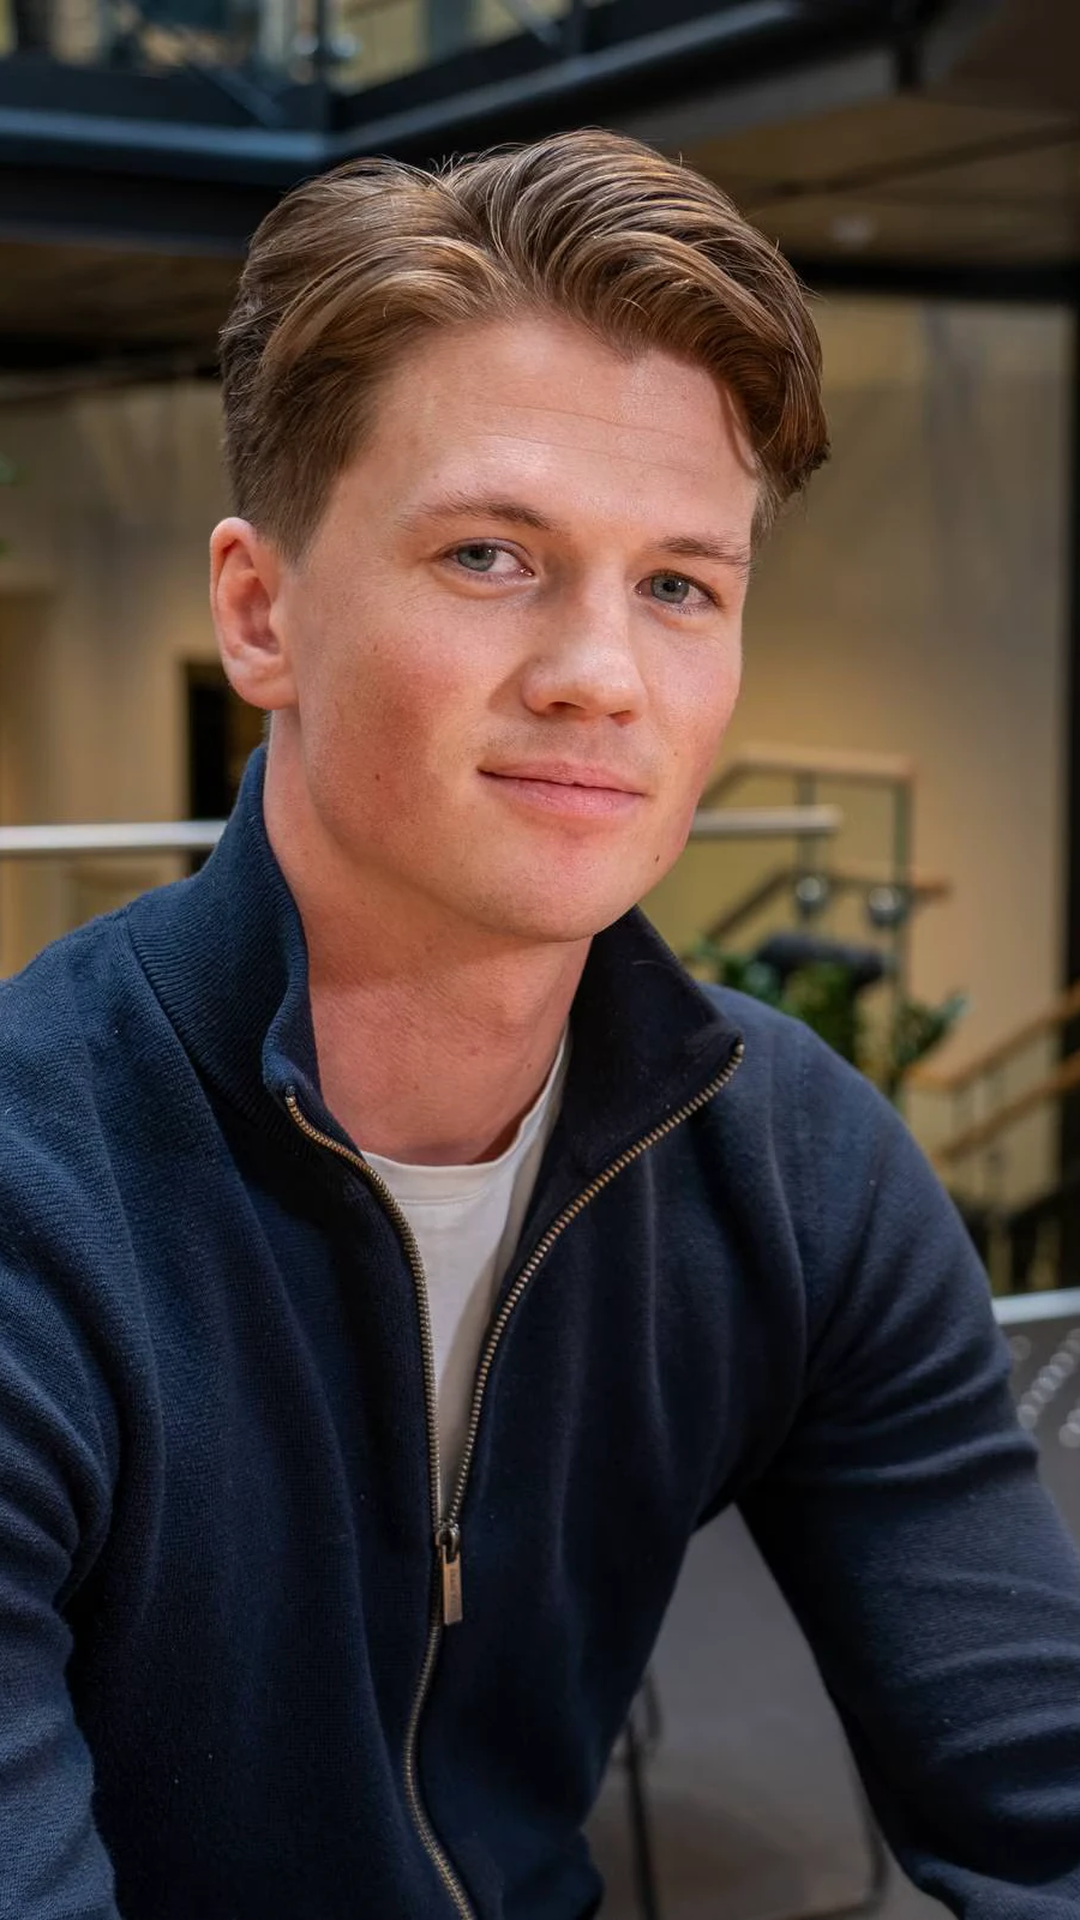
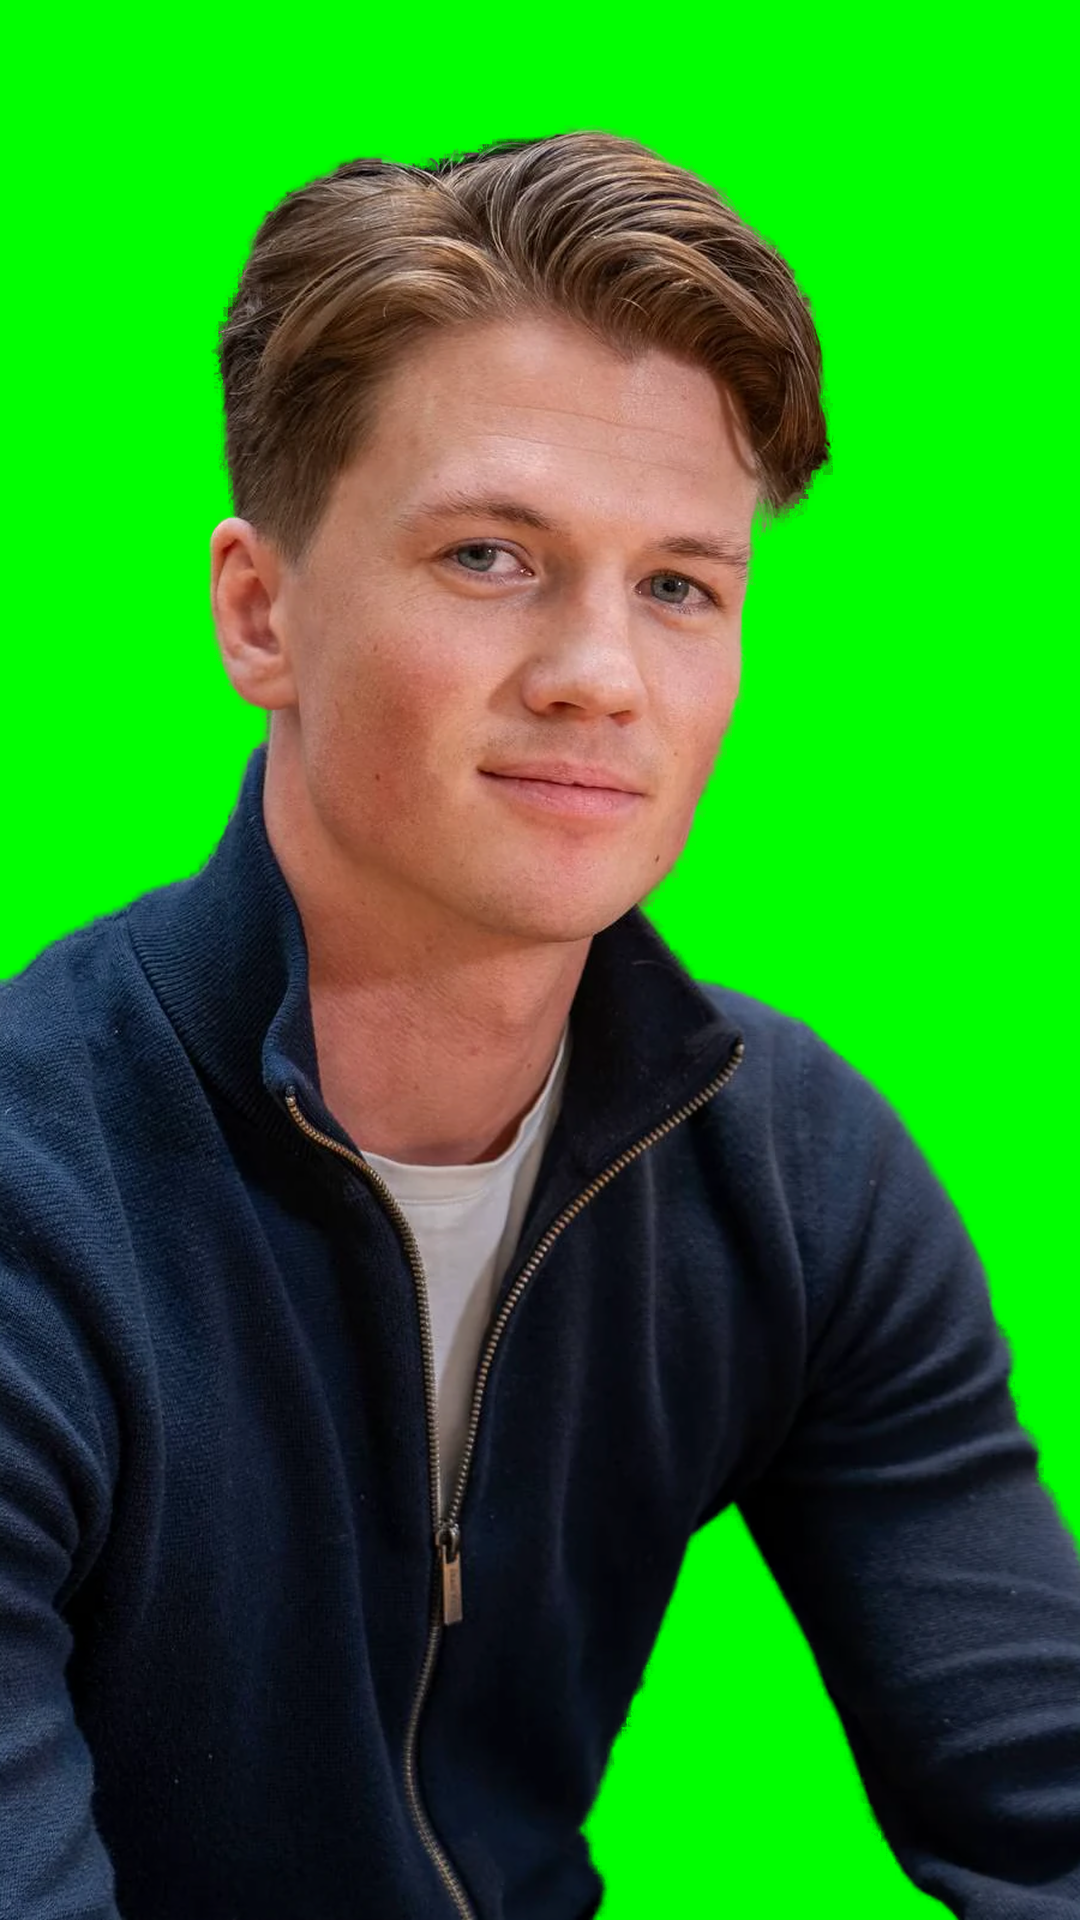
Shorts: cut-out presenter, slower cuts

diff --git a/scripts/make_short.py b/scripts/make_short.py
@@ -33,7 +33,7 @@ UA = {"User-Agent": "Mozilla/5.0 (PuroClassicoShorts/1.0; +https://www.puroclass
 PLAT = {"weidian": "Weidian", "taobao": "Taobao", "1688": "1688"}
 FORMATS = ["story", "relatable", "story", "guess", "story", "top5", "story", "qc", "story", "term", "story", "order"]
 FF = imageio_ffmpeg.get_ffmpeg_exe()
-VOICES = [v for v in (os.environ.get("SHORTS_VOICE", "").strip(), "TX3LPaxmHKxFdv7VOQHJ", "bIHbv24MWmeRgasZH58o", "nPczCjzI2devNBz1zQrb") if v]   # Liam, Will, Brian
+VOICES = [v for v in (os.environ.get("SHORTS_VOICE", "").strip(), "bIHbv24MWmeRgasZH58o", "TX3LPaxmHKxFdv7VOQHJ", "nPczCjzI2devNBz1zQrb") if v]   # Will, Liam, Brian
 VOICE_MODEL = "eleven_multilingual_v2"; _VOICE = {}
 
 TERMS = [  # (term, what it stands for, plain-English meaning, example line)
@@ -145,7 +145,7 @@ def pexels(q, kind):
 def _on_topic(q, tags):
     words = [w for w in re.findall(r"[a-z]+", q.lower()) if len(w) > 3]; t = (tags or "").lower()
     hits = sum(1 for w in words if w[:5] in t)
-    return hits >= (2 if len(words) >= 3 else 1) if words else True
+    return hits >= min(len(words), 2) if words else True
 
 def pixabay(q, kind):
     key = os.environ.get("PIXABAY_API_KEY", "").strip()
@@ -212,14 +212,18 @@ def media_many(q, n=3, themes=()):
         if len(out) >= n: break
     print("  media:", q, "->", [(m[0], m[2][:40]) for m in out]); return out
 
-class Clip:                                                  # reads a video as 1080x1920 frames, looping
-    def __init__(self, path): self.path = path; self.p = None
+class Clip:                                                  # reads a video as 1080x1920 frames, looping; key=True removes a green screen
+    def __init__(self, path, key=False): self.path = path; self.p = None; self.key = key
     def frame(self):
+        n = 4 if self.key else 3
         if self.p is None:
-            self.p = subprocess.Popen([FF, "-loglevel", "error", "-stream_loop", "-1", "-i", self.path, "-an", "-vf",
-                "scale=%d:%d:force_original_aspect_ratio=increase,crop=%d:%d,fps=%d" % (W, H, W, H, FPS), "-f", "rawvideo", "-pix_fmt", "rgb24", "-"], stdout=subprocess.PIPE)
-        b = self.p.stdout.read(W * H * 3)
-        return Image.frombuffer("RGB", (W, H), b).convert("RGBA") if len(b) == W * H * 3 else None
+            vf = "scale=%d:%d:force_original_aspect_ratio=increase,crop=%d:%d,fps=%d" % (W, H, W, H, FPS)
+            if self.key: vf += ",chromakey=0x00FF00:0.20:0.08,despill=type=green,format=rgba"
+            self.p = subprocess.Popen([FF, "-loglevel", "error", "-stream_loop", "-1", "-i", self.path, "-an", "-vf", vf,
+                "-f", "rawvideo", "-pix_fmt", "rgba" if self.key else "rgb24", "-"], stdout=subprocess.PIPE)
+        b = self.p.stdout.read(W * H * n)
+        if len(b) != W * H * n: return None
+        return Image.frombuffer("RGBA", (W, H), b) if self.key else Image.frombuffer("RGB", (W, H), b).convert("RGBA")
     def close(self):
         if self.p: self.p.kill(); self.p = None
 
@@ -445,11 +449,11 @@ def draw_gfx(fr, g, lt, dur):
         label(390)
     paste(fr, L, W / 2, 250 + 310 + int(30 * (1 - a)), 0.94 + 0.06 * pop(lt - 0.25, 0.35), a)
 
-CUT = 1.15                                                   # seconds per shot
+CUT = 2.6                                                    # seconds per shot
 def draw_bg(fr, s, lt, dur):
-    shots = s["bg"]; nseg = 1 if s.get("cut") is False else max(1, int(round(dur / CUT))); seg = dur / nseg
+    shots = s["bg"]; nseg = max(1, min(len(shots), int(round(dur / CUT)))); seg = dur / nseg      # never more cuts than different clips
     k = min(nseg - 1, int(lt / seg)); st = (lt - k * seg) / seg; kind, m, credit = shots[k % len(shots)]
-    zoom = 1.0 if s.get("cut") is False else (1.0 + 0.11 * st if k % 2 == 0 else 1.11 - 0.11 * st)   # punch in, then pull out
+    zoom = 1.0 + 0.07 * st if k % 2 == 0 else 1.07 - 0.07 * st                # slow push in, then out
     if kind == "video":
         clips = s.setdefault("_clips", {})
         if id(m) not in clips: clips[id(m)] = Clip(m)
@@ -467,6 +471,11 @@ def draw_bg(fr, s, lt, dur):
         x = max(0, min(W - cw, x))
         fr.paste(base.crop((x, y, x + cw, y + ch)).resize((W, H), Image.BILINEAR), (0, 0))
     fr.alpha_composite(shade())
+    if s.get("fg"):                                            # the presenter, cut out, in front of the footage
+        if "_fg" not in s: s["_fg"] = Clip(s["fg"], key=True)
+        f = s["_fg"].frame()
+        if f is not None: s["_fgl"] = f
+        if s.get("_fgl") is not None: fr.alpha_composite(s["_fgl"])
     if k > 0 and st < 0.09:                                   # white flash on the cut
         fr.alpha_composite(Image.new("RGBA", (W, H), (255, 255, 255, int(150 * (1 - st / 0.09)))))
     if credit: ImageDraw.Draw(fr).text((W - 30, 1712), credit[:70], font=font(22, 500), fill=(200, 208, 225, 200), anchor="ra")
@@ -477,7 +486,7 @@ def draw_scene(fr, s, lt, dur, FT):
         draw_bg(fr, s, lt, dur)
         d = ImageDraw.Draw(fr); lg = FT["bug"]                 # small brand "bug" top-right, like a news channel
         d.rounded_rectangle([W - lg.size[0] - 74, 126, W - 34, 126 + lg.size[1] + 28], 22, fill=BG + (170,)); fr.alpha_composite(lg, (W - lg.size[0] - 54, 140))
-        if s.get("label") and lt < 3.2: draw_title(fr, s["label"], lt, 1240 if s.get("cut") is False else 1000)
+        if s.get("label") and lt < 3.2: draw_title(fr, s["label"], lt, 1300 if s.get("presenter") else 1000)
         draw_gfx(fr, s.get("gfx"), lt, dur)
         return
     if s.get("kicker"): paste(fr, tag(s["kicker"].upper(), FT["kick"], s.get("kcol", ACCENT), BG), W / 2, 300, pop(lt), a)
@@ -675,14 +684,16 @@ def fmt_story(D, a):
     pool = [x for x in stories if x.get("approved")] or stories      # only stories the owner approved go out
     n = int(D.state.get("story", 0)) % len(pool); st = next((x for x in stories if x["id"] == a.id), pool[n]) if a.id else pool[n]
     pid, p, v = D.top(1, skip_done=False)[0]; hero = load_img(img_url(p))
-    beats = st["beats"]; th = st.get("themes") or []
-    shots = [media_many(b["show"], 3, th[k % len(th):] + th[:k % len(th)] if th else ()) for k, b in enumerate(beats)]; every = [m for ms in shots for m in ms]
-    if not every: return None
-    beats = beats[:4]; shots = shots[:4]
-    sc = [dict(dur=3.4, say=st["hook"], label=st.get("label") or st["hook"], bg=[ms[0] for ms in shots if ms] or every, news=True, presenter=True)]
+    beats = st["beats"][:4]; th = st.get("themes") or []
+    rot = lambda k: th[k % len(th):] + th[:k % len(th)] if th else ()
+    shots = [media_many(b["show"], 3, rot(k)) for k, b in enumerate(beats)]           # every clip is used once (see _USED)
+    intro = media_many(th[:2] or beats[0]["show"], 2, th); outro = media_many(th[-2:] or beats[-1]["show"], 2, th)
+    if not any(shots): return None
+    spare = [m for ms in shots for m in ms[2:]]
+    sc = [dict(dur=3.4, say=st["hook"], label=st.get("label") or st["hook"], bg=intro or spare or shots[0], news=True, presenter=True)]
     for k, b in enumerate(beats):
-        sc.append(dict(dur=3.6, say=b["say"], bg=shots[k] or every, news=True, gfx=b.get("gfx")))
-    sc.append(dict(dur=3.6, say="Want to see what's on the China side? The spreadsheet is in the bio. Join the China side!", bg=every[::-1], news=True, last=True, presenter=True))
+        if shots[k]: sc.append(dict(dur=3.6, say=b["say"], bg=shots[k][:2] if len(shots[k]) > 2 and spare else shots[k], news=True, gfx=b.get("gfx")))
+    sc.append(dict(dur=3.6, say="Want to see what's on the China side? The spreadsheet is in the bio. Join the China side!", bg=outro or spare or shots[-1], news=True, last=True, presenter=True))
     cap = "%s 👀 Follow for more. The spreadsheet is in the bio — join the China side." % st["hook"].strip()
     return sc, [], cap, p, {"story": n + 1}
 
@@ -742,7 +753,7 @@ def hedra_clip(audio_mp3, out_path):
             _HEDRA["bal"] = api("/balance"); print("  hedra API wallet:", _HEDRA["bal"].get("balance"), _HEDRA["bal"].get("currency"))
         img = upload(PRESENTER, "image/png"); aud = upload(audio_mp3, "audio/mpeg")
         job = api("/models/hedra-character-3", json.dumps({"input": {
-            "prompt": "A young man presenting the news to the camera, natural head movement and blinking, friendly and confident",
+            "prompt": "A young man presenting the news to the camera in front of a plain solid green screen, natural head movement and blinking, friendly and confident, the background stays a flat green",
             "aspect_ratio": "9:16", "resolution": "720p",
             "start_image": {"source": "url", "url": img}, "audio": {"source": "url", "url": aud}}}).encode(), dict(H, **{"Content-Type": "application/json"}))
         jid = job["job_id"]
@@ -771,7 +782,7 @@ def build_audio(scenes, tmp):
             voiced = True; s["dur"] = max(d + (1.0 if s.get("last") else 0.4), 2.0); s["words"] = words
             if s.get("presenter"):                            # the AI presenter says this line on camera
                 os.makedirs(MEDIA_DIR, exist_ok=True); clip = hedra_clip(wav + ".mp3", os.path.join(MEDIA_DIR, "presenter%d.mp4" % k))
-                if clip: s["bg"] = [("video", clip, "AI-generated presenter")]; s["cut"] = False
+                if clip: s["fg"] = clip
             with wave.open(wav) as w: out.writeframes(w.readframes(w.getnframes()))
             written = int(d * 44100)
         out.writeframes(b"\0\0\0\0" * max(0, int(round(s["dur"] * FPS)) * 44100 // FPS - written))
@@ -797,17 +808,39 @@ def render(scenes, out_path):
                 d = ImageDraw.Draw(fr); d.rectangle([0, 0, W, 10], fill=(30, 40, 66, 255)); d.rectangle([0, 0, int(W * (done + i + 1) / total), 10], fill=ACCENT + (255,))
                 proc.stdin.write(fr.convert("RGB").tobytes())
             done += nf
-            for c in (s.get("_clips") or {}).values(): c.close()
+            for c in list((s.get("_clips") or {}).values()) + ([s["_fg"]] if s.get("_fg") else []): c.close()
         proc.stdin.close(); proc.wait()
         if proc.returncode: raise SystemExit("ffmpeg failed")
     return total / FPS, bool(audio)
 
 
+SAMPLE_VOICES = [("Will", "bIHbv24MWmeRgasZH58o"), ("Liam", "TX3LPaxmHKxFdv7VOQHJ"), ("Chris", "iP95p4xoKVk53GoZ742B"), ("Charlie", "IKne3meq5aSn9XLyUdCD"),
+                 ("Daniel", "onwK4e9ZLuTAKqWW03F9"), ("George", "JBFqnCBsd6RMkjVDRZzb"), ("Adam", "pNInz6obpgDQGcFmaJgB"), ("Brian", "nPczCjzI2devNBz1zQrb")]
+
+def voice_samples(out_dir):
+    """One mp3 where each candidate voice says its name and the same line, so the owner can pick."""
+    key = os.environ.get("ELEVENLABS_API_KEY", "").strip()
+    if not key: print("no ELEVENLABS_API_KEY"); return
+    parts = []
+    for n, (name, vid) in enumerate(SAMPLE_VOICES, 1):
+        text = "Voice %d. %s. Did you know more than half of the world's shoes come from one country?" % (n, name)
+        try:
+            mp3 = fetch("https://api.elevenlabs.io/v1/text-to-speech/%s?output_format=mp3_44100_128" % vid, 90,
+                        json.dumps({"text": text, "model_id": VOICE_MODEL}).encode(), {"xi-api-key": key, "Content-Type": "application/json", "Accept": "audio/mpeg"})
+            path = os.path.join(out_dir, "v%d.mp3" % n); open(path, "wb").write(mp3); parts.append(path); print("  sample:", n, name)
+        except Exception as e: print("  sample failed:", name, e)
+    if not parts: return
+    lst = os.path.join(out_dir, "v.txt"); open(lst, "w").write("".join("file '%s'\n" % p for p in parts))
+    subprocess.run([FF, "-y", "-loglevel", "error", "-f", "concat", "-safe", "0", "-i", lst, "-c:a", "libmp3lame", "-b:a", "128k", os.path.join(out_dir, "voices.mp3")], check=True)
+    for p in parts + [lst]: os.remove(p)
+
+
 def main():
-    ap = argparse.ArgumentParser()
+    ap = argparse.ArgumentParser(); ap.add_argument("--voice-samples", action="store_true")
     ap.add_argument("--format", default="auto", choices=["auto"] + FORMATS); ap.add_argument("--id"); ap.add_argument("--slot", type=int)
     ap.add_argument("--out", default=os.path.join(ROOT, "out")); ap.add_argument("--commit-state", action="store_true")
     a = ap.parse_args(); os.makedirs(a.out, exist_ok=True)
+    if a.voice_samples: return voice_samples(a.out)
     D = Data(); n = a.slot if a.slot is not None else int(D.state.get("n", 0))
     order = FORMATS[n % len(FORMATS):] + FORMATS[:n % len(FORMATS)] if a.format == "auto" else [a.format]
     built = None
